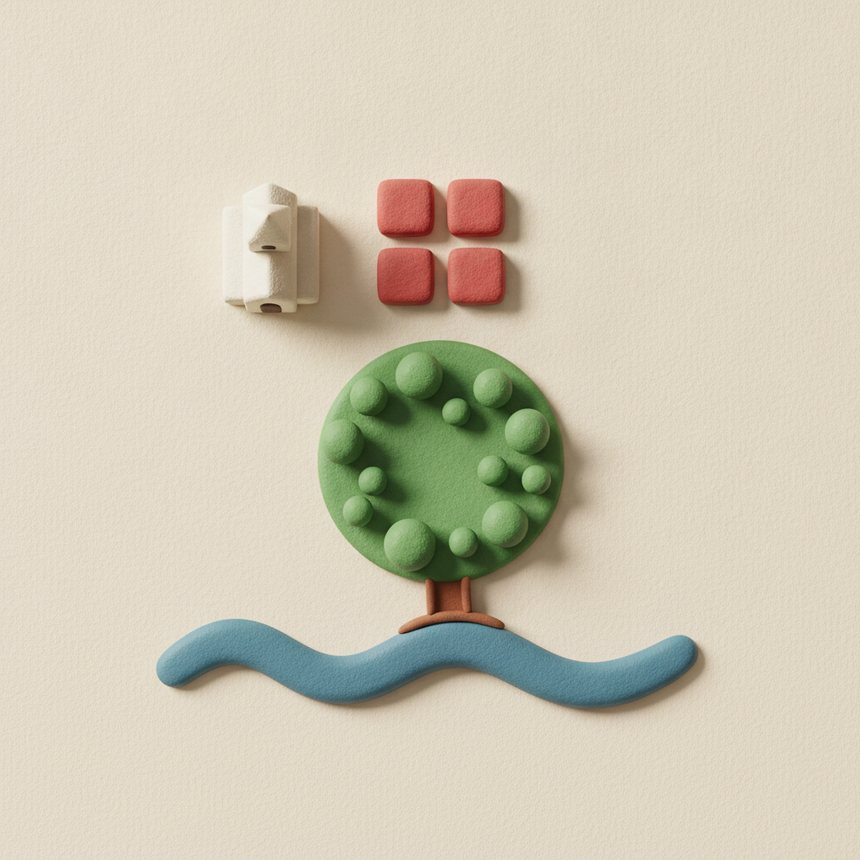
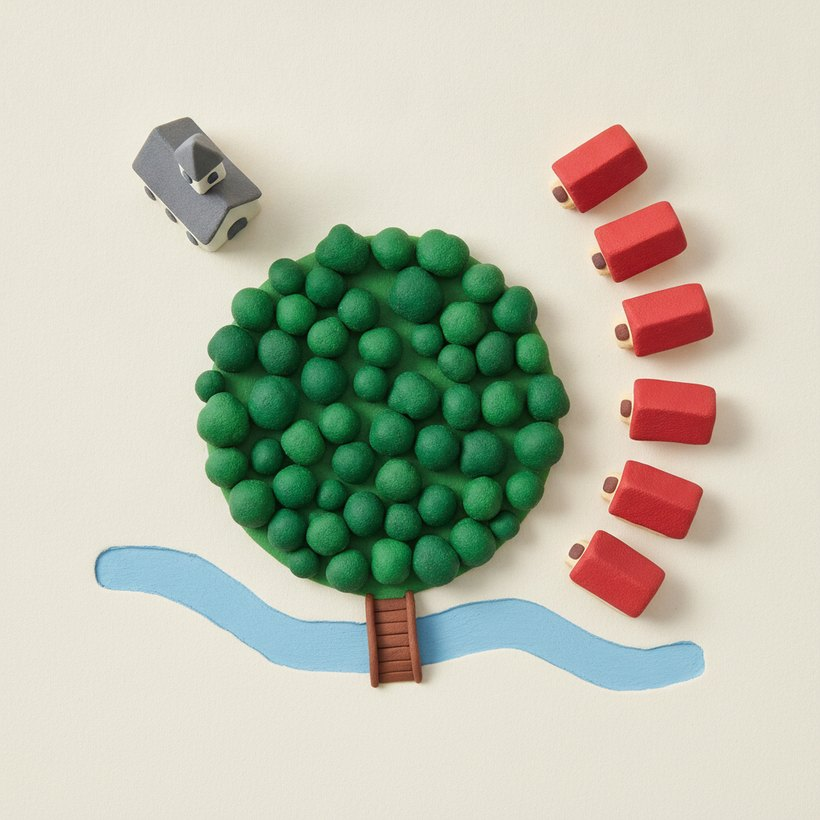
3o ano: mapa novo (a maquete vista de cima, com a PONTE que a fase pedia e nao existia), coordenada em A2/B4/C2 dada pela tela, 'onde fica' num eixo so (cima/meio/embaixo), quadrado branco virou luz, legenda encolhe para nao ficar atras da barra e cada rodada ganha voz

diff --git a/_mapa/index.html b/_mapa/index.html
@@ -681,7 +681,10 @@ h1{font-size:31px;font-weight:700;color:#fff;text-shadow:0 2px 0 var(--tinta-d),
 .bin.nao{background:-webkit-linear-gradient(top,#e2503f,#a32a1c);background:linear-gradient(#e2503f,#a32a1c)}
 /* a tela final ficou mais alta com o boletim e o botao de treino sumia atras
    da barra de baixo (armadilha ja anotada no _padrao/FIM-DE-ATIVIDADE.md) */
-.tela{padding-bottom:calc(118px + env(safe-area-inset-bottom))}
+/* ⚠ MEDIDO (ago/2026): com 118px a barra fixa ainda cobria conteudo em 16
+   fases numa tela de 360x640 — a dica, os simbolos da legenda, as teclas da
+   forca. A barra tem ~56px e fica a 10px do fim; o resto e folga para o dedo. */
+.tela{padding-bottom:calc(152px + env(safe-area-inset-bottom))}
 .centro.topo{-webkit-box-pack:start;-webkit-justify-content:flex-start;justify-content:flex-start}
 /* a tela final junta medalha + cracha + boletim + dois botoes: no telefone ela
    passava de 1000px e o botao de treino ficava ATRAS da barra de baixo. Aqui
@@ -722,6 +725,21 @@ h1{font-size:31px;font-weight:700;color:#fff;text-shadow:0 2px 0 var(--tinta-d),
 /* ORDENAR: o trilho da legenda, vaga numerada */
 .trilho{display:-webkit-box;display:-webkit-flex;display:flex;-webkit-box-pack:center;justify-content:center;
   -webkit-flex-wrap:wrap;flex-wrap:wrap;gap:8px;margin-top:12px;width:100%}
+
+/* ⚠ MONTE A LEGENDA em tela baixa: com 5 linhas de 54px mais os simbolos, a
+   fileira de pecas caia atras da barra fixa e a crianca nem via que havia peca
+   para pegar (foto do Marcos, ago/2026: "sobreposicao de enunciado e opcao de
+   respostas"). Rolar resolvia, mas ninguem rola o que nao sabe que existe.
+   Entao a fase ENCOLHE para caber: linha mais baixa, simbolo menor, folha mais
+   estreita. O alvo continua acima do piso de 40px do portao de leiaute.     */
+@media (max-height:860px){
+  .tvaga{min-width:74px;height:44px}
+  .clin{gap:6px;padding:5px 8px}
+  .folha{padding:9px 11px}
+  .clin .ctx{font-size:15px}
+  .pecas .peca{padding:6px 9px}
+  .peca .pecaimg{width:40px;height:40px}
+}
 .tvaga{min-width:92px;height:54px;padding:0 12px;border-radius:14px;border:2px dashed #b6ab90;
   background:rgba(253,251,243,.94);color:#6b6252;font-size:17px;font-weight:800;
   display:-webkit-box;display:-webkit-flex;display:flex;-webkit-box-align:center;align-items:center;
@@ -1669,10 +1687,12 @@ function mVoo(){
 /* ---------- 4) DE CIMA OU DE LADO? (escolher) ----------
    Concreto -> figural (Bruner/CPA): a criança já viu a praça mudar; agora
    olha UM objeto e escolhe, entre três desenhos, o que é a vista de cima.  */
-var VISTAS=[{n:"mesa",   rot:"a mesa"},
-            {n:"carro",  rot:"o carro"},
-            {n:"cadeira",rot:"a cadeira"},
-            {n:"piscina",rot:"a piscina"}];
+/* ⚠ `de` e a forma CONTRAIDA. Montando a frase com `rot` saia "voando bem em
+   cima A MESA" e "o contorno de A MESA" — portugues errado, e a crianca le. */
+var VISTAS=[{k:0,n:"mesa",   rot:"a mesa",    de:"da mesa"},
+            {k:1,n:"carro",  rot:"o carro",   de:"do carro"},
+            {k:2,n:"cadeira",rot:"a cadeira", de:"da cadeira"},
+            {k:3,n:"piscina",rot:"a piscina", de:"da piscina"}];
 function mDeCima(){
   var fila=baguncar(VISTAS.slice(0)),idx=0,err=0;
   function passo(){
@@ -1680,7 +1700,8 @@ function mDeCima(){
     var it=fila[idx],fim=false;
     var c=el("div","centro");
     c.appendChild(el("div","selo","DE CIMA OU DE LADO?"));
-    c.appendChild(el("div","balao","O Nico est&#225; voando bem em cima <b>"+it.rot+"</b>. Qual destes desenhos &#233; o que ele <b>v&#234; l&#225; de cima</b>?"));
+    c.appendChild(el("div","balao","O Nico est&#225; voando bem em cima <b>"+it.de+"</b>. Qual destes desenhos &#233; o que ele <b>v&#234; l&#225; de cima</b>?"));
+    falaDaTela("mp_voo_q"+it.k);
     var mold=el("div","moldurafoto");
     mold.appendChild(cenaImg("mp_"+it.n+"_l","fotoreal"));
     mold.appendChild(el("div","fotocred","assim voc&#234; v&#234; do ch&#227;o"));
@@ -1708,7 +1729,7 @@ function mDeCima(){
         } else { err++; g.className="gfoto no"; sErro();
           setTimeout(function(){ if(g.className==="gfoto no") g.className="gfoto"; },500);
           if(err===2){ consolo(); mostraDica("Feche um olho e imagine que voc&#234; est&#225; no <b>teto</b>, olhando para baixo."); }
-          if(err>=3) mostraDica("Procure o <b>contorno</b> de "+it.rot+": s&#243; a forma, sem a frente.");
+          if(err>=3) mostraDica("Procure o <b>contorno</b> "+it.de+": s&#243; a forma, sem a frente.");
         }
       };
       box.appendChild(g);
@@ -1783,8 +1804,16 @@ function mSombra(){
 /* ⚠ as posicoes sao MEDIDAS na arte do mapa (mp_mapa), nao chutadas: a igreja
    fica a 32% da largura e 28% da altura, e por ai vai. Chutar deixa o alvo ao
    LADO da coisa e a crianca toca no lugar certo e leva "errado".            */
-var NAMAQ=[{q:"a <b>igreja</b>",x:32,y:28},{q:"a <b>ponte</b>",x:52,y:72},
-           {q:"o <b>rio</b>",x:24,y:76},{q:"a <b>pra&#231;a com as &#225;rvores</b>",x:51,y:52}];
+/* ⚠ REMEDIDO na arte NOVA (ago/2026). O mapa antigo NAO era o mesmo lugar da
+   maquete — e a fase inteira existe para mostrar que sao o mesmo lugar, um com
+   altura e outro achatado. Faltava ate a PONTE, que a fase pedia (cobranca do
+   Marcos). Agora o mapa e a maquete vista de cima: igreja a esquerda, praca no
+   meio, casas de telhado vermelho a direita, rio embaixo e a ponte sobre ele.
+   Cada alvo abaixo foi medido por COR na figura, nao no olho.              */
+var NAMAQ=[{q:"a <b>igreja</b>",x:26,y:23},
+           {q:"a <b>pra&#231;a com as &#225;rvores</b>",x:46,y:50},
+           {q:"a <b>ponte</b>",x:48,y:81},
+           {q:"o <b>rio</b>",x:28,y:71}];
 function mMaquete(){
   var idx=0,err=0;
   function passo(){
@@ -1794,6 +1823,10 @@ function mMaquete(){
     var c=el("div","centro");
     c.appendChild(el("div","selo","DA MAQUETE AO MAPA"));
     c.appendChild(el("div","balao","Na maquete voc&#234; v&#234; "+it.q+". Ache <b>o mesmo lugar</b> no mapa e toque nele."));
+    /* ⚠ a narracao tem que dizer a COISA desta rodada. Antes so tocava a
+       abertura da fase, e a palavra "ponte" nunca era falada — quem nao le
+       ficava sem saber o que procurar. */
+    falaDaTela("mp_maq_q"+idx);
     var lado=el("div","cols");
     var m1=el("div","moldurafoto");
     m1.appendChild(cenaImg("mp_maquete","fotoreal"));
@@ -1806,10 +1839,18 @@ function mMaquete(){
     alvo.style.left=it.x+"%"; alvo.style.top=it.y+"%";
     alvo.setAttribute("data-qa","1");
     alvo.onclick=function(ev){ if(ev&&ev.stopPropagation) ev.stopPropagation();
-      if(fim) return; fim=true; arma(); alvo.className="achado mira ok"; sCerto();
+      if(fim) return; fim=true; arma(); sCerto();
+      /* ⚠ NADA DE QUADRADO BRANCO EM CIMA DO MAPA (cobranca do Marcos, ago/2026:
+         "quando se clica na ponte aparece um quadrado branco"). O alvo some e no
+         lugar acende uma LUZ redonda com o nome da coisa — o mesmo que ja se faz
+         no "bairro la de cima". */
+      alvo.style.display="none";
+      var luz=el("div","luzok"); luz.style.left=it.x+"%"; luz.style.top=it.y+"%"; cena.appendChild(luz);
+      var tx=el("div","luztx",(it.q.replace(/<[^>]+>/g,"")).toUpperCase());
+      tx.style.left=it.x+"%"; tx.style.top="calc("+it.y+"% + 44px)"; cena.appendChild(tx);
       reg("dimensao",err===0,err+1);
-      var ce=centroTela(alvo); faisca(ce[0],ce[1],"#6bd23f",14);
-      setTimeout(function(){ idx++; err=0; passo(); },1000);
+      var ce=centroTela(luz); faisca(ce[0],ce[1],"#ffd43b",16);
+      setTimeout(function(){ idx++; err=0; passo(); },1400);
     };
     cena.appendChild(alvo);
     cena.onclick=function(){ if(fim) return; err++; sErro();
@@ -1828,9 +1869,21 @@ function mMaquete(){
 /* ---------- 7) ONDE FICA? (classificar — relações projetivas) ----------
    "Relações espaciais projetivas e a descentralização: direita e esquerda,
    frente e atrás, em cima e embaixo" (currículo, verbatim).               */
-var ONDE=[["a igreja","esq"],["as casas de telhado vermelho","dir"],
-          ["a pra&#231;a com as &#225;rvores","meio"],["a ponte","meio"],
-          ["o rio","baixo"],["a torre da igreja","esq"]];
+/* ⚠ REFEITA (cobranca do Marcos, ago/2026): *"peca para classificar em cima,
+   no meio e embaixo, porque a direita e a esquerda ficou confuso com relacao as
+   casas"*. Ele esta certo por dois motivos:
+   1. as gavetas misturavam DOIS eixos (esquerda/direita com meio/embaixo) — nao
+      da para classificar direito quando as caixas nao sao do mesmo tipo;
+   2. nesta figura a igreja e as casas estao praticamente na MESMA altura, uma
+      ao lado da outra: "esquerda" e "direita" viram discussao, nao aprendizado.
+   O mapa (mp_mapa) se divide sozinho em tres faixas horizontais bem limpas:
+   igreja e casas EM CIMA, a praca verde NO MEIO, o rio EMBAIXO. Medido na arte.
+   ⚠ E saiu "a ponte", que a fase pedia e que NAO EXISTE nesta figura.       */
+var ONDE=[{k:0,q:"a <b>igreja</b>",                       d:"cima"},
+          {k:1,q:"a <b>casa</b> de telhado vermelho l&#225; em cima", d:"cima"},
+          {k:2,q:"a <b>pra&#231;a</b> verde",                 d:"meio"},
+          {k:3,q:"o <b>rio</b>",                          d:"baixo"},
+          {k:4,q:"a <b>ponte</b>",                        d:"baixo"}];
 function mOndeFica(){
   limpa();var t=el("div","tela");setProg(t,42);
   var fila=baguncar(ONDE.slice(0)),i=0,err=0,contas={};
@@ -1841,7 +1894,7 @@ function mOndeFica(){
   mini.appendChild(cenaImg("mp_mapa","fotoreal"));
   c.appendChild(mini);
   var cxs=el("div","gavetas");
-  var chaves=[["esq","&#192; ESQUERDA"],["meio","NO MEIO"],["dir","&#192; DIREITA"],["baixo","EMBAIXO"]];
+  var chaves=[["cima","EM CIMA"],["meio","NO MEIO"],["baixo","EMBAIXO"]];
   var ns={};
   var z;
   for(z=0;z<chaves.length;z++){(function(k,rot){
@@ -1855,12 +1908,13 @@ function mOndeFica(){
   c.appendChild(cxs);
   function mostra(){
     if(i>=fila.length){ fechaFase("ONDE FICA NO MAPA?","No mapa d&#225; para dizer <b>onde</b> cada coisa fica &#8212; e todo mundo entende igual.","mp_onde_revela",10000,mRoteiro,42); return; }
-    bal.innerHTML="No mapa, ache <b>"+fila[i][0]+"</b>."; falaDaTela("mp_onde_q"+fila[i][1]);
-    bal.setAttribute("data-qa",fila[i][1]);
+    bal.innerHTML="No mapa, onde fica "+fila[i].q+"? Em cima, no meio ou embaixo?";
+    falaDaTela("mp_onde_q"+fila[i].k);
+    bal.setAttribute("data-qa",fila[i].d);
   }
   function resp(k,d){ arma();
     if(i>=fila.length) return;
-    if(k===fila[i][1]){ contas[k]++; ns[k].innerHTML=""+contas[k]; sPop(i); sCerto();
+    if(k===fila[i].d){ contas[k]++; ns[k].innerHTML=""+contas[k]; sPop(i); sCerto();
       reg("posicao",err===0,err+1);
       var ce=centroTela(d); faisca(ce[0],ce[1],"#6bd23f",10);
       i++; err=0; mostra();
@@ -1895,6 +1949,7 @@ function mRoteiro(){
     var c=el("div","centro");
     c.appendChild(el("div","selo","O ROTEIRO DO NICO"));
     c.appendChild(el("div","balao","Monte o caminho "+it.t+". Toque nas setas <b>na ordem certa</b>."));
+    falaDaTela("mp_rota_q"+idx);
     var cena=el("div","janela");
     cena.appendChild(cenaImg("mp_mapa","jimg"));
     var passaro=el("div","voando");
@@ -2274,12 +2329,13 @@ function mRosa(){
    as celulas que ele ocupa (a arvore pega duas, o rio pega a linha inteira),
    pela mesma licao da ponte: numa figura, coisa grande nao cabe num
    quadradinho so.                                                          */
-var COORD=[{q:"a <b>igreja</b>",cels:["B1","B2"]},
-           {q:"as <b>casas</b> de telhado vermelho",cels:["B2","B3"]},
-           {q:"a <b>copa da &#225;rvore</b> da pra&#231;a",cels:["C2","C3"]},
-           {q:"a <b>linha de baixo</b> do mapa, por onde passa o rio",cels:["D1","D2","D3","D4"],unico:1},
-           {q:"a <b>linha de cima</b> do mapa, que est&#225; vazia",cels:["A1","A2","A3","A4"],unico:1},
-           {q:"o lugar onde o <b>rio passa por baixo</b> da &#225;rvore",cels:["D2","D3"]}];
+/* ⚠ UMA celula por item (a tela DA a coordenada e so ela vale), medida por cor
+   na arte nova: onde a coisa tem mais pixels.                              */
+var COORD=[{q:"a <b>igreja</b>",cels:["A2"]},
+           {q:"as <b>casas</b> de telhado vermelho",cels:["B4"]},
+           {q:"a <b>pra&#231;a</b> verde",cels:["C2"]},
+           {q:"a <b>ponte</b>",cels:["D2"]},
+           {q:"o <b>rio</b>",cels:["D3"]}];
 function mCoord(){
   var idx=0,err=0;
   function passo(){
@@ -2288,15 +2344,22 @@ function mCoord(){
     var it=COORD[idx],fim=false;
     var c=el("div","centro");
     c.appendChild(el("div","selo","ACHE PELA COORDENADA"));
-    c.appendChild(el("div","balao","Onde est&#225; "+it.q+"? Toque no quadradinho do mapa."));
+    /* ⚠ REFEITA (pedido do Marcos, ago/2026): *"na fase ache pela coordenada,
+       melhor colocar A1, D4 etc, assim fica mais facil achar pela coordenada"*.
+       Antes a tela perguntava "onde esta a igreja?" e a crianca ACHAVA A OLHO —
+       a coordenada nao era usada para nada. Agora a tela DA a coordenada e ela
+       tem que ler a letra (linha) e o numero (coluna) para chegar la, que e o
+       que a fase se propoe a ensinar. So a celula nomeada vale.             */
+    var alvo=it.cels[0];
+    c.appendChild(el("div","balao","Ache o quadradinho <b>"+alvo+"</b>. L&#225; tem "+it.q+"."));
+    falaDaTela("mp_coord_q"+idx);
     var qd=el("div","quadric");
     qd.appendChild(cenaImg("mp_mapa","qdimg"));
     var LET=["A","B","C","D"],i,j;
     for(i=0;i<4;i++) for(j=0;j<4;j++){(function(li,co){
       var cel=el("div","qcel");
       cel.style.left=(co*25)+"%"; cel.style.top=(li*25)+"%";
-      var meu=LET[li]+(co+1), vale=false, vv;
-      for(vv=0;vv<it.cels.length;vv++) if(it.cels[vv]===meu) vale=true;
+      var meu=LET[li]+(co+1), vale=(meu===alvo);
       cel.setAttribute("data-qa",vale?"1":"0");
       cel.onclick=function(){ arma();
         if(fim) return;
@@ -2307,7 +2370,7 @@ function mCoord(){
           setTimeout(function(){ idx++; err=0; passo(); },1100);
         } else { err++; cel.className="qcel no"; sErro();
           setTimeout(function(){ cel.className="qcel"; },420);
-          if(err===2){ consolo(); mostraDica("A <b>letra</b> diz a linha (de cima para baixo) e o <b>n&#250;mero</b> diz a coluna (da esquerda para a direita)."); }
+          if(err===2){ consolo(); mostraDica("Ache a linha <b>"+alvo.charAt(0)+"</b> na beirada de cima e desca; depois ande at&#233; a coluna <b>"+alvo.substring(1)+"</b>."); }
         }
       };
       qd.appendChild(cel);
@@ -2721,6 +2784,7 @@ function mDesenhe(){
     var c=el("div","centro");
     c.appendChild(el("div","selo","O MAPA DO BAIRRO"));
     c.appendChild(el("div","balao","Ponha o s&#237;mbolo "+it.q+" no lugar certo do bairro."));
+    falaDaTela("mp_des_q"+idx);
     var cena=el("div","janela");
     cena.appendChild(cenaImg("mp_esc_bairro","jimg"));
     var alvo=el("div","achado mira");
@@ -2800,6 +2864,7 @@ function mAlto(){
     var c=el("div","centro");
     c.appendChild(el("div","selo","O BAIRRO L&#193; DE CIMA"));
     c.appendChild(el("div","balao","O Nico subiu bem alto e olhou o bairro inteiro. Aqui <b>n&#227;o tem s&#237;mbolo nenhum</b>: &#233; tudo do jeito que &#233;. Ache "+it.q+"."));
+    falaDaTela("mp_alto_q"+idx);
     var cena=el("div","janela");
     cena.appendChild(cenaImg("mp_bairro","jimg"));
     /* alvos INVISIVEIS, um por zona — servem ao auditor jogador (data-qa) e ao
@@ -3012,6 +3077,7 @@ function mAnde(){
     var c=el("div","centro");
     c.appendChild(el("div","selo","ANDE AT&#201; O LUGAR"));
     c.appendChild(el("div","balao","O Nico est&#225; no canto. Diga o caminho at&#233; <b>"+it.n+"</b>, um passo por vez."));
+    falaDaTela("mp_ande_q"+idx);
     var tab=el("div","tabu"),i,j,cels={};
     for(i=0;i<N;i++) for(j=0;j<N;j++){(function(li,co){
       var q=el("div","tcel");

diff --git a/_naveg/index.html b/_naveg/index.html
@@ -2201,6 +2201,7 @@ function mPinta(){
     var c=el("div","centro");
     c.appendChild(el("div","selo","A L&#205;NGUA GUARDA"));
     c.appendChild(el("div","balao","Pinte de "+it.rot+" "+it.tit+"."));
+    falaDaTela("nv_pinta_q"+rodada);
     var cont=el("div","placar","Faltam "+falta);c.appendChild(cont);
     var par=el("div","paragrafo"),i;
     for(i=0;i<TXPAL.length;i++){(function(w){
@@ -2730,6 +2731,10 @@ function mEnsinar(){
       var c2=el("div","centro");
       c2.appendChild(nicoEl("gg"));
       c2.appendChild(el("div","selo","O AR&#193; ENTENDEU!"));
+      /* a frase e da CRIANCA: nao existe audio pronto para o que ela montou.
+         A voz desta tela e o nv_ensinar_revela, que fala sobre ela. A linha
+         abaixo e a marca que o _qa/vozpergunta.py le (comentario ele apaga). */
+      "sem voz: frase montada pela crianca";
       c2.appendChild(el("div","balao","<b>"+frase.join(" ")+"</b>"));
       c2.appendChild(el("div","balao pequeno","Foi voc&#234; que ensinou isso para mim. Obrigado!"));
       var b=el("button","btn dourado","Pegar a minha medalha");b.style.marginTop="14px";

diff --git a/_qa/vozpergunta.py b/_qa/vozpergunta.py
@@ -56,9 +56,27 @@ def main():
         return 0
 
     faltam, ok = [], 0
-    for m in re.finditer(r"\bbal\.innerHTML\s*=\s*(.{0,160})", js):
+    # ⚠ BURACO QUE O MARCOS ACHOU (ago/2026): este portao so olhava
+    #    `bal.innerHTML=`. Mas ha fases que montam o balao DE NOVO a cada
+    #    rodada — `el("div","balao","Na maquete voce ve "+it.q+"...")` dentro
+    #    do `passo()`. Ali o texto muda igual, e a voz ficava na abertura: na
+    #    "maquete ao mapa" a palavra PONTE nunca era falada. Um portao que so
+    #    conhece UMA maneira de escrever a mesma coisa da uma falsa aprovacao,
+    #    que e pior do que nao ter portao.
+    #    Agora conta as duas formas: o balao REESCRITO e o balao CRIADO com um
+    #    pedaco variavel (`"+it.` / `"+fila[` / `"+PINTAS[`...).
+    ALVOS = [r"\bbal\.innerHTML\s*=\s*(.{0,160})",
+             r'el\("div","balao",\s*("[^"]*"\s*\+\s*\w+[^)]{0,160})']
+    for m in [mm for pad in ALVOS for mm in re.finditer(pad, js)]:
         texto = m.group(1)
         if CONTADOR.search(texto) or AVISO.search(texto):
+            continue
+        # ⚠ texto MONTADO PELA CRIANCA (a frase que ela escreveu) nao tem como
+        #    ter audio pronto. A fase declara isso com a linha
+        #    `"sem voz: ...";` logo antes — e uma instrucao de verdade, nao um
+        #    comentario, porque comentario este portao apaga antes de olhar.
+        #    Declarar e melhor que adivinhar.
+        if "sem voz:" in js[max(0, m.start() - 400):m.start()]:
             continue
         # ⚠ o proprio trecho capturado pode ja trazer a troca da voz (quando as
         #    duas coisas estao na MESMA linha) — senao o portao acusa a si mesmo
